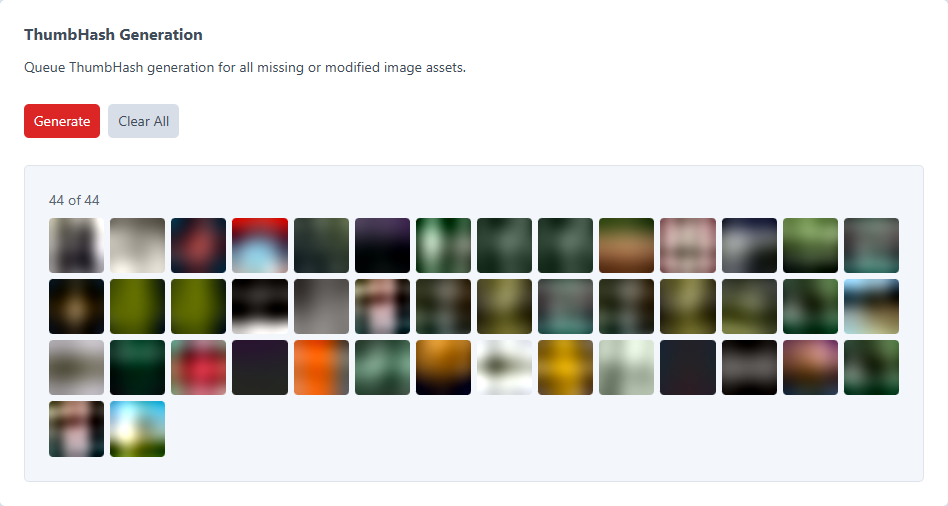
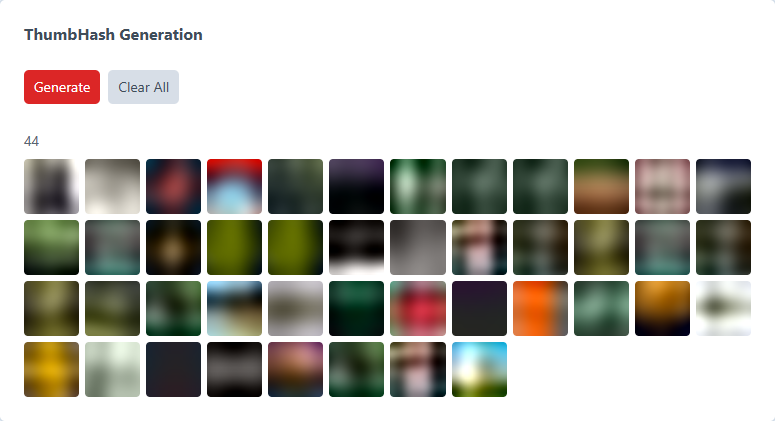
Refactor UtilitiesController and ThumbhashUtility to streamline asset retrieval and enhance utility grid display with PNG placeholders and thumbhash strings

diff --git a/src/utilities/ThumbhashUtility.php b/src/utilities/ThumbhashUtility.php
@@ -4,20 +4,11 @@ namespace craftyhedge\craftthumbhash\utilities;
 
 use Craft;
 use craft\base\Utility;
-use craft\elements\Asset;
-use craftyhedge\craftthumbhash\db\Table;
 use craftyhedge\craftthumbhash\Plugin;
-use craftyhedge\craftthumbhash\records\ThumbhashRecord;
-use yii\db\Expression;
 
 class ThumbhashUtility extends Utility
 {
     private const ICON_PATH = __DIR__ . '/../icon-mask.svg';
-
-    private static function isSvgAsset(Asset $asset): bool
-    {
-        return strtolower((string)$asset->getExtension()) === 'svg';
-    }
 
     public static function displayName(): string
     {
@@ -45,54 +36,18 @@ class ThumbhashUtility extends Utility
 
         return Craft::$app->getView()->renderTemplate('thumbhash/utilities/index', [
             'initialRows' => self::initialRows(),
+            'initialHashRows' => self::initialHashRows(),
             'generateDataUrl' => (bool)$settings->generateDataUrl,
         ]);
     }
 
     private static function initialRows(): array
     {
-        $query = Asset::find()
-            ->kind(Asset::KIND_IMAGE)
-            ->filename(['not', '*.svg'])
-            ->leftJoin(Table::THUMBHASHES . ' thumbhashes', '[[thumbhashes.assetId]] = [[elements.id]]')
-            ->orderBy(new Expression("CASE WHEN [[thumbhashes.dataUrl]] IS NULL OR [[thumbhashes.dataUrl]] = '' THEN 0 ELSE 1 END"))
-            ->addOrderBy(['elements.id' => SORT_ASC]);
+        return Plugin::getInstance()->thumbhash->getUtilityPngRows();
+    }
 
-        $settings = Plugin::getInstance()->getSettings();
-        $volumes = $settings->volumes;
-
-        if ($volumes !== null && $volumes !== '*') {
-            $query->volume((array)$volumes);
-        }
-
-        $assets = $query->all();
-        $assetIds = array_map(static fn(Asset $asset) => (int)$asset->id, $assets);
-
-        $records = [];
-        if (!empty($assetIds)) {
-            $records = ThumbhashRecord::find()
-                ->where(['assetId' => $assetIds])
-                ->indexBy('assetId')
-                ->all();
-        }
-
-        $rows = [];
-        foreach ($assets as $asset) {
-            if (self::isSvgAsset($asset)) {
-                continue;
-            }
-
-            $record = $records[$asset->id] ?? null;
-            $dataUrl = $record?->dataUrl;
-
-            $rows[] = [
-                'assetId' => (int)$asset->id,
-                'name' => (string)($asset->title ?: $asset->filename),
-                'editUrl' => (string)($asset->getCpEditUrl() ?? ''),
-                'dataUrl' => $dataUrl,
-            ];
-        }
-
-        return $rows;
+    private static function initialHashRows(): array
+    {
+        return Plugin::getInstance()->thumbhash->getUtilityHashRows();
     }
 }

diff --git a/src/controllers/UtilitiesController.php b/src/controllers/UtilitiesController.php
@@ -7,14 +7,11 @@ use craft\elements\Asset;
 use craft\helpers\Queue as QueueHelper;
 use craft\queue\QueueInterface;
 use craft\web\Controller;
-use craftyhedge\craftthumbhash\db\Table;
 use craftyhedge\craftthumbhash\jobs\GenerateThumbhashBatch;
 use craftyhedge\craftthumbhash\Plugin;
 use craftyhedge\craftthumbhash\models\Settings;
-use craftyhedge\craftthumbhash\records\ThumbhashRecord;
 use craftyhedge\craftthumbhash\utilities\ThumbhashUtility;
 use yii\base\InvalidArgumentException;
-use yii\db\Expression;
 use yii\queue\Queue as YiiQueue;
 use yii\web\Response;
 
@@ -256,41 +253,13 @@ class UtilitiesController extends Controller
         $this->requireAcceptsJson();
         $this->requirePermission('utility:' . ThumbhashUtility::id());
 
-        $assets = $this->utilityAssetQuery()
-            ->leftJoin(Table::THUMBHASHES . ' thumbhashes', '[[thumbhashes.assetId]] = [[elements.id]]')
-            ->orderBy(new Expression("CASE WHEN [[thumbhashes.dataUrl]] IS NULL OR [[thumbhashes.dataUrl]] = '' THEN 0 ELSE 1 END"))
-            ->addOrderBy(['elements.id' => SORT_ASC])
-            ->all();
-
-        $assetIds = array_map(static fn(Asset $asset) => (int)$asset->id, $assets);
-
-        $records = [];
-        if (!empty($assetIds)) {
-            $records = ThumbhashRecord::find()
-                ->where(['assetId' => $assetIds])
-                ->indexBy('assetId')
-                ->all();
-        }
-
-        $rows = [];
-        foreach ($assets as $asset) {
-            if ($this->isSvgAsset($asset)) {
-                continue;
-            }
-
-            $record = $records[$asset->id] ?? null;
-
-            $rows[] = [
-                'assetId' => (int)$asset->id,
-                'name' => (string)($asset->title ?: $asset->filename),
-                'editUrl' => (string)($asset->getCpEditUrl() ?? ''),
-                'dataUrl' => $record?->dataUrl,
-            ];
-        }
+        $rows = Plugin::getInstance()->thumbhash->getUtilityPngRows();
+        $hashRows = Plugin::getInstance()->thumbhash->getUtilityHashRows();
 
         return $this->asJson([
             'success' => true,
             'rows' => $rows,
+            'hashRows' => $hashRows,
         ]);
     }
 

diff --git a/src/services/ThumbhashService.php b/src/services/ThumbhashService.php
@@ -931,6 +931,48 @@ class ThumbhashService extends Component
     }
 
     /**
+     * Get utility grid rows from persisted PNG placeholders.
+     *
+     * @return array<int, array{assetId: int, dataUrl: string}>
+     */
+    public function getUtilityPngRows(): array
+    {
+        $records = ThumbhashRecord::find()
+            ->where(['not', ['dataUrl' => null]])
+            ->andWhere(['!=', 'dataUrl', ''])
+            ->orderBy(['assetId' => SORT_ASC])
+            ->all();
+
+        return array_map(static function(ThumbhashRecord $record): array {
+            return [
+                'assetId' => (int)$record->assetId,
+                'dataUrl' => (string)$record->dataUrl,
+            ];
+        }, $records);
+    }
+
+    /**
+     * Get utility fallback rows from persisted thumbhash strings.
+     *
+     * @return array<int, array{assetId: int, hash: string}>
+     */
+    public function getUtilityHashRows(): array
+    {
+        $records = ThumbhashRecord::find()
+            ->where(['not', ['hash' => null]])
+            ->andWhere(['!=', 'hash', ''])
+            ->orderBy(['assetId' => SORT_ASC])
+            ->all();
+
+        return array_map(static function(ThumbhashRecord $record): array {
+            return [
+                'assetId' => (int)$record->assetId,
+                'hash' => (string)$record->hash,
+            ];
+        }, $records);
+    }
+
+    /**
      * Get the stored or decoded PNG data URL for an asset.
      * Returns the pre-computed value from DB if available, otherwise decodes on the fly.
      */
